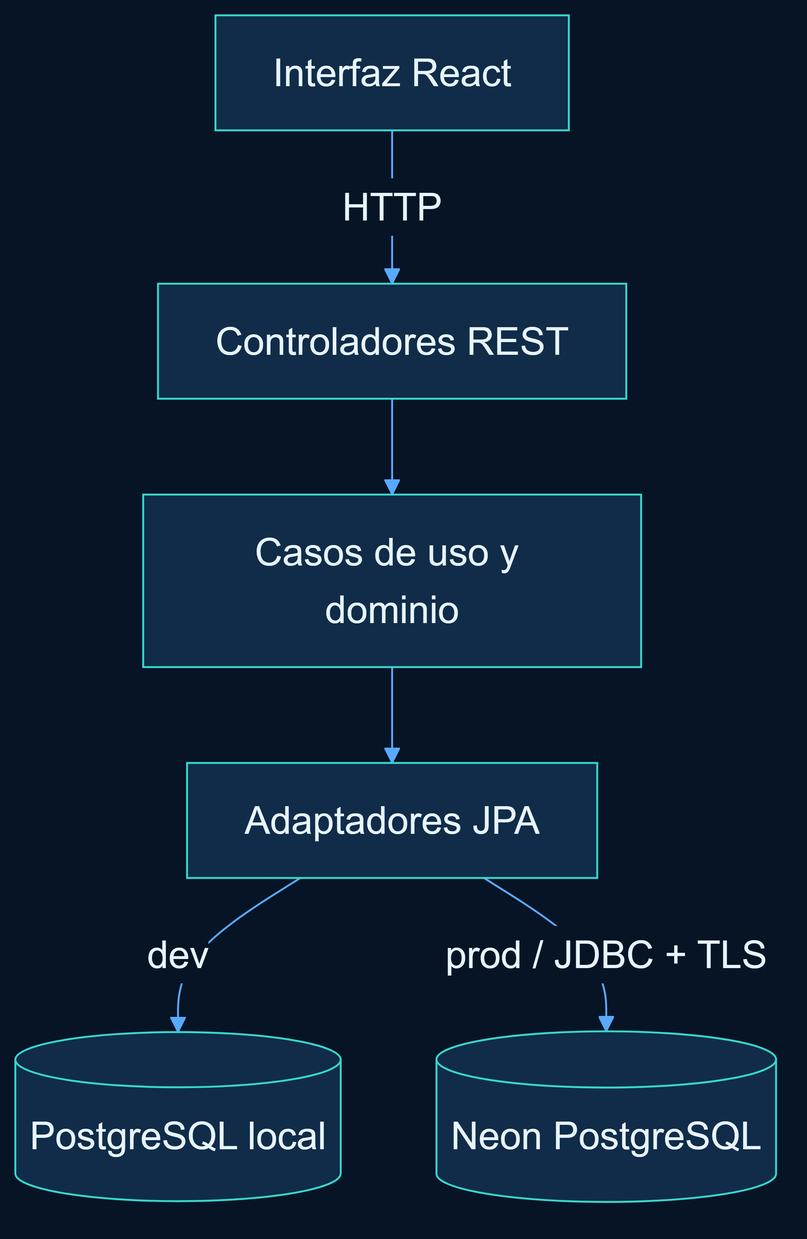
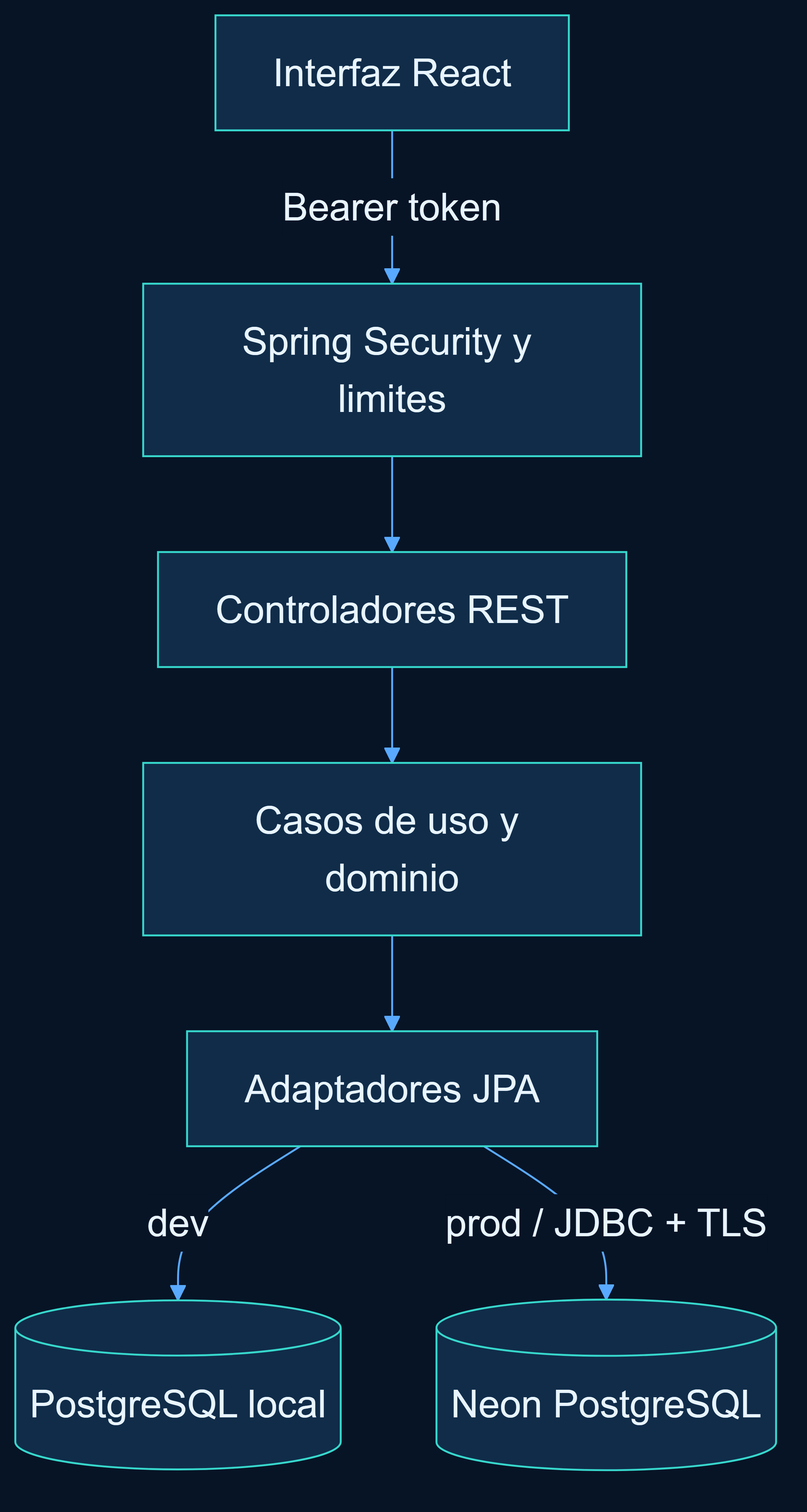
Update documentation

diff --git a/docs/deployment.md b/docs/deployment.md
@@ -1,0 +1,47 @@
+# Despliegue: Render, Vercel y Neon
+
+[Inicio](../README.md) · [Configuración local](getting-started.md)
+
+La aplicación se puede preparar con el backend en Render, el frontend en Vercel y PostgreSQL en Neon. Estos pasos no despliegan ni crean servicios por sí solos. La demo crea una sesión anónima temporal por pestaña. La API exige tokens Bearer y comprueba la propiedad de los recursos. No utiliza cuentas registradas.
+
+## Base de datos para la demo
+
+Se recomienda un proyecto Neon independiente con una base vacía y credenciales exclusivas para la demo. Así se separan los datos y los límites de uso del esquema existente. En la inspección de solo lectura del 18 de noviembre de 2026, la base Neon anterior contenía las tablas `usuarios`, `proyectos` y `tareas`, pero no `demo_sessions` ni `flyway_schema_history`. La migración `V1` crea las tablas originales y fallaría sobre ese esquema; no se debe resolver con baseline automático sin revisión.
+
+Una vez creada y comprobada la base demo vacía, ejecuta `V1` y `V2` con Flyway **solo tras autorizar esa acción**. Comprueba después el historial y vuelve a dejar `FLYWAY_ENABLED=false` en el servicio. No se han creado bases ni ejecutado migraciones en Neon durante la revisión.
+
+## Backend en Render
+
+Crea un **Web Service Docker** con el directorio raíz `backend`, el archivo `Dockerfile` de ese directorio y el plan Free. Configura el health check en `/health` y estas variables de entorno en Render:
+
+| Variable | Valor o función |
+|---|---|
+| `DATABASE_URL` | URI privada de Neon, incluida la contraseña. Configúrala como secreto en Render; no la incluyas en el repositorio ni en Vercel. |
+| `SPRING_PROFILES_ACTIVE` | `prod`. Es también el valor predeterminado de la imagen. |
+| `CORS_ALLOWED_ORIGINS` | Lista separada por comas de orígenes HTTPS exactos del frontend, por ejemplo `https://demo.example.com`; sin rutas ni barras finales. Si está vacía, `prod` no permite orígenes de navegador. |
+| `PORT` | Render proporciona el puerto; el backend lo escucha en todas las interfaces. Fuera de Render se usa `8080` por defecto. |
+| `JAVA_TOOL_OPTIONS` | Opcional: sustituye los parámetros de JVM de la imagen solo tras comprobar el consumo. |
+
+El perfil `prod` verifica TLS y el esquema existente en Neon (`ddl-auto=validate`); no crea ni modifica tablas. El archivo `.dockerignore` excluye variables de entorno, compilaciones y archivos locales del contexto de imagen. La imagen usa Java 21, un usuario sin privilegios y limita la memoria del heap al 50 % del límite disponible, además de limitar metaspace y caché de código. Estas opciones dejan espacio para memoria nativa, aunque el consumo real depende de la carga y debe vigilarse.
+
+`GET /health` devuelve `{"status":"UP"}` mientras la aplicación responde. No consulta la base de datos: una respuesta correcta no garantiza que Neon esté disponible.
+
+## Frontend en Vercel
+
+Importa el repositorio con `frontend` como directorio raíz y el preset Vite. El comando de compilación es `npm run build` y el directorio de salida es `dist`. Configura en Vercel la variable de compilación `VITE_API_URL` con el origen HTTPS público del backend de Render, sin `/api`, por ejemplo `https://backend.example.com`. Es pública en el código distribuido al navegador: nunca incluyas contraseñas ni otras credenciales. Tras cambiarla, vuelve a desplegar el frontend. En desarrollo, si no se define, se usa `http://localhost:8080`.
+
+Incluye el origen concreto de Vercel en `CORS_ALLOWED_ORIGINS`; si utilizas previsualizaciones con dominios distintos, autoriza explícitamente cada origen que deba funcionar. CORS restringe lecturas desde navegadores y no es un mecanismo de autenticación.
+
+## Protección de la demo
+
+El token aleatorio se almacena como hash en PostgreSQL y en `sessionStorage` del navegador; no es una cuenta de usuario. La sesión caduca tras 24 horas por defecto y solo permite acceder a sus proyectos y tareas. Las rutas de usuarios y OpenAPI están deshabilitadas. La limpieza borra lotes de sesiones caducadas mientras el backend está activo; Render puede detenerlo, por lo que el borrado físico no tiene una hora garantizada. La caducidad de acceso se comprueba en cada petición.
+
+El limitador en memoria restringe peticiones por dirección remota y sesión, y establece una cuota más estricta para crear sesiones; no es distribuido y se reinicia con la instancia. Detrás de proxies varios usuarios pueden compartir una dirección y sufrir limitaciones comunes. No confíes en cabeceras de IP del cliente sin configurar proxies de confianza. Los límites reducen el abuso, pero no evitan ataques distribuidos ni agotan el riesgo de costes o indisponibilidad. Usa datos ficticios, una base Neon aislada y monitoriza el uso.
+
+La CSP del frontend está en `frontend/vercel.json`; su `connect-src https://*.onrender.com` permite subdominios de Render para facilitar la configuración, de modo que conviene sustituirlo por el origen exacto de la API antes de publicar. El token en `sessionStorage` puede ser robado si se ejecuta JavaScript malicioso en la página. CORS no protege contra llamadas directas.
+
+Las migraciones Flyway están deshabilitadas por defecto (`FLYWAY_ENABLED=false`). En una base de datos nueva y aislada se puede habilitar `FLYWAY_ENABLED=true`; para una base existente sin historial de Flyway hay que revisar el esquema y preparar el baseline manualmente antes de habilitarlas. No ejecutar migraciones en producción sin autorización. La base aislada debe estar preparada antes de arrancar el perfil `prod`.
+
+Variables opcionales del backend: `DEMO_SESSION_HOURS` (24), `DEMO_MAX_SESSIONS` (1000), `DEMO_MAX_PROJECTS` (5), `DEMO_MAX_TASKS` (25), `DEMO_RATE_PER_MINUTE` (120) y `DEMO_SESSION_RATE_PER_MINUTE` (5). La limpieza se configura con las propiedades `demo.cleanup-interval-ms` y `demo.cleanup-initial-delay-ms`.
+
+Render Free puede suspender servicios inactivos y tardar en reanudarlos; consulta sus límites vigentes antes de publicar. No se requiere ni se configura ningún plan de pago en estos pasos.

diff --git a/docs/rest-api.md b/docs/rest-api.md
@@ -1,43 +1,22 @@
 # API REST
 
-[Inicio](../README.md) · [Casos de uso](use-cases.md)
+[Inicio](../README.md) · [Modelo de datos](data-model.md)
 
-Base local habitual: `http://localhost:8080`. Los identificadores en rutas y cuerpos son UUID. La interfaz OpenAPI está configurada en `/swagger-ui/index.html`; su disponibilidad depende del arranque correcto.
+`POST /api/demo/session` crea una sesión anónima y devuelve `token` y `expiresAt`. El token se entrega una sola vez y debe enviarse en `Authorization: Bearer <token>` para las rutas de proyectos y tareas. No se aceptan cookies como credenciales. `GET /health` es público. Las rutas de usuarios y la interfaz OpenAPI no están disponibles en el modo demo.
 
-## Operaciones
-
-| Método y ruta | Cuerpo | Éxito |
+| Método y ruta | Cuerpo | Resultado |
 |---|---|---|
-| `POST /api/usuarios` | `name`, `email` | 201, usuario |
-| `GET /api/usuarios/{id}` | — | 200, usuario |
-| `POST /api/proyectos` | `name`, `description`, `ownerId` | 201, proyecto |
-| `GET /api/proyectos/usuario/{ownerId}` | — | 200, lista de proyectos |
-| `DELETE /api/proyectos/{id}` | — | 204, sin cuerpo |
-| `POST /api/tareas` | `titulo`, `descripcion`, `projectId` | 201, tarea |
-| `GET /api/tareas/{id}` | — | 200, tarea |
-| `GET /api/tareas/proyecto/{projectId}` | — | 200, lista de tareas |
-| `PUT /api/tareas/{id}` | `titulo`, `descripcion` | 200, tarea |
-| `PATCH /api/tareas/{id}/estado` | `estado` | 200, tarea |
-| `DELETE /api/tareas/{id}` | — | 204, sin cuerpo |
+| `POST /api/demo/session` | — | 200, sesión y datos ficticios iniciales |
+| `GET /api/proyectos` | — | Lista de proyectos de la sesión |
+| `POST /api/proyectos` | `name`, `description` | 201, proyecto propio |
+| `DELETE /api/proyectos/{id}` | — | 204, elimina el proyecto propio y sus tareas |
+| `POST /api/tareas` | `titulo`, `descripcion`, `projectId` | 201, tarea en un proyecto propio |
+| `GET /api/tareas/{id}` | — | Tarea propia |
+| `GET /api/tareas/proyecto/{id}` | — | Tareas de un proyecto propio |
+| `PUT /api/tareas/{id}` | `titulo`, `descripcion` | Tarea propia editada |
+| `PATCH /api/tareas/{id}/estado` | `estado` | Tarea propia actualizada |
+| `DELETE /api/tareas/{id}` | — | 204, tarea propia eliminada |
 
-Los nombres y email de usuario, el nombre de proyecto y el título de tarea deben ser no vacíos; `ownerId` y `projectId` son obligatorios en sus creaciones. La descripción es opcional. `Email` comprueba que exista `@`, además de no estar vacío; no realiza una validación completa del formato. El PATCH convierte el texto con `TaskStatus.valueOf`: admite `PENDIENTE`, `EN_PROGRESO`, `HECHO` y `CANCELADO`, respetando mayúsculas.
+Los estados son `PENDIENTE`, `EN_PROGRESO`, `HECHO` y `CANCELADO`. Los títulos y nombres son obligatorios y se limitan a 255 caracteres; las descripciones son opcionales y tienen el mismo límite. El servidor determina el propietario: no debe enviarse `ownerId`.
 
-Ejemplo de cuerpo de creación de tarea:
-
-```json
-{
-  "titulo": "Preparar documentación",
-  "descripcion": "Revisar los casos de uso",
-  "projectId": "11111111-1111-4111-8111-111111111111"
-}
-```
-
-Ejemplo de cambio de estado: `{"estado":"EN_PROGRESO"}`. Los UUID de ejemplo no garantizan que exista el recurso relacionado.
-
-## Respuestas y errores
-
-Un usuario contiene `id`, `name`, `email`; un proyecto, `id`, `name`, `description`, `ownerId`; y una tarea, `id`, `titulo`, `descripcion`, `status`, `projectId`, `assignedTo`.
-
-`GlobalExceptionHandler` convierte `RecursoNoEncontradoException` en 404 y `IllegalArgumentException` en 400 con `timestamp`, `status`, `error` y `mensaje`. Los fallos de validación `@Valid` devuelven 400 con un mapa `errores` por campo. El servicio de cambio de estado usa una `RuntimeException` genérica para una tarea inexistente, por lo que no entra en el manejador específico de 404. El DTO de PATCH no lleva `@Valid` ni restricciones; no se debe asumir una respuesta uniforme para valores ausentes o nulos.
-
-La creación de proyecto y tarea no comprueba la existencia del UUID relacionado. No se implementa autenticación ni autorización en los controladores y configuración revisados.
+Un token ausente, inválido o caducado recibe 401. Los recursos ajenos o inexistentes reciben 404. Las rutas de usuarios están denegadas. Los límites de peticiones y cuotas responden 429. CORS no sustituye la autenticación. No incluyas tokens en URL ni registros.

diff --git a/README.md b/README.md
@@ -2,19 +2,19 @@
 
 Aplicación de gestión de proyectos y tareas con una interfaz React y una API REST en Java. El backend organiza el modelo, los casos de uso y los adaptadores siguiendo una arquitectura de puertos y adaptadores con elementos de DDD.
 
-**Java 21 · Spring Boot 4.0.6 · PostgreSQL / Neon · React 19 · Vite 8**
+**Java 21 · Spring Boot 4.0.9 · PostgreSQL / Neon · React 19 · Vite 8**
 
 ![Arquitectura general](docs/diagrams/svg/full-stack.svg)
 
 ## Qué permite hacer
 
-- Crear y consultar usuarios mediante la API.
+- Iniciar una sesión demo anónima con datos ficticios.
 - Crear, listar y eliminar proyectos; gestionar las tareas de cada proyecto.
 - Crear, consultar, editar, eliminar y cambiar el estado de tareas.
 - Buscar tareas por título y consultar contadores del proyecto seleccionado en la interfaz.
 - Consultar la documentación OpenAPI configurada en el backend.
 
-La interfaz utiliza un identificador de usuario fijo y una URL de API local. La asignación de tareas aparece en el modelo, pero no existe un caso de uso ni endpoint de asignación en el código actual. No hay autenticación ni autorización implementadas.
+La demo crea una sesión anónima temporal con datos ficticios por visitante; cada sesión solo puede acceder a sus proyectos y tareas. La asignación de tareas aparece en el modelo, pero no existe un caso de uso ni endpoint de asignación en el código actual. La API protege las operaciones de la demo mediante tokens y comprobaciones de propiedad.
 
 ## Capturas
 
@@ -41,16 +41,16 @@ Se necesitan Java 21, PostgreSQL local o una base Neon preparada, Node.js y npm.
 
 Para ejecutar con PostgreSQL local:
 
-1. Crear la base de datos `gestiontareas` y establecer `DB_PASSWORD` con la contraseña del usuario PostgreSQL `postgres`.
+1. Crear una base local nueva `gestiontareas`, establecer `DB_PASSWORD` y habilitar `FLYWAY_ENABLED=true` para aplicar las migraciones en esa base aislada.
 2. Desde `backend/`, ejecutar `./mvnw spring-boot:run` o, en Windows, `.\mvnw.cmd spring-boot:run`.
 3. Desde `frontend/`, ejecutar `npm install` y después `npm run dev`.
 4. Abrir `http://localhost:5173`. La API se configura en `http://localhost:8080`.
 
-El perfil `dev` usa PostgreSQL local; el perfil `prod` utiliza `DATABASE_URL` de Neon con TLS y valida el esquema existente sin modificarlo. La configuración de Neon y los pasos de arranque están en [Puesta en marcha](docs/getting-started.md).
+Flyway está desactivado por defecto y no debe habilitarse en una base existente sin revisar su esquema y su baseline. El perfil `dev` usa PostgreSQL local; el perfil `prod` utiliza `DATABASE_URL` de Neon con TLS y valida el esquema existente sin modificarlo. La configuración de Neon y los pasos de arranque están en [Puesta en marcha](docs/getting-started.md).
 
-La validación del backend cubre 28 pruebas; consulta [Pruebas](docs/testing.md) para conocer el resultado y sus condiciones.
+La validación del backend incluye pruebas de seguridad y de integración; consulta [Pruebas](docs/testing.md) para conocer el resultado y sus condiciones.
 
-Consulta [Puesta en marcha](docs/getting-started.md) antes de utilizar el frontend: contiene información necesaria sobre el identificador de usuario fijo, configuración y pruebas.
+Consulta [Puesta en marcha](docs/getting-started.md) antes de utilizar el frontend: contiene información sobre sesiones, configuración y pruebas.
 
 ## Documentación técnica
 
@@ -62,11 +62,12 @@ Consulta [Puesta en marcha](docs/getting-started.md) antes de utilizar el fronte
 - [Pruebas](docs/testing.md)
 - [Frontend](docs/frontend.md)
 - [Puesta en marcha](docs/getting-started.md)
+- [Despliegue en Render y Vercel](docs/deployment.md)
 - [Catálogo de diagramas](docs/diagrams/README.md)
 
 ## Evolución posible
 
-Entre las mejoras pendientes están la autenticación y autorización, la configuración externa del usuario y de la URL de API, el tratamiento consistente de errores, la integridad referencial y la ampliación de pruebas. Son propuestas, no funcionalidades existentes.
+Entre las mejoras pendientes están la autenticación de usuarios registrados, la configuración externa del usuario y de la URL de API, el tratamiento consistente de errores, la integridad referencial y la ampliación de pruebas. Son propuestas, no funcionalidades existentes.
 
 ## Autor
 

diff --git a/docs/testing.md b/docs/testing.md
@@ -8,12 +8,14 @@
 
 - **Dominio:** `EmailTest` comprueba la creación y varios valores inválidos; `TaskTest` cubre estado inicial, cambio de estado y asignación.
 - **Servicios:** JUnit y Mockito comprueban creación de usuario, proyecto y tarea; consulta y cambio de estado de tarea; y eliminación de proyecto, incluido el orden de eliminación.
+- **Seguridad demo:** pruebas HTTP con PostgreSQL aislado verifican sesión, hash del token, aislamiento de recursos, caducidad, limpieza y cuotas; el limitador se comprueba por separado.
+- **Despliegue:** `DeploymentWebConfigTest` comprueba el health check y las restricciones CORS.
 - **Configuración de Neon:** `NeonDataSourceConfigTest` comprueba la conversión de la URI, TLS verificado y el tratamiento de entradas inválidas.
 - **Integración:** Spring Boot Test y Testcontainers usan PostgreSQL `16-alpine` para comprobar carga del contexto, conexión, proxy transaccional y rollback al fallar la eliminación.
 
 La prueba de rollback usa una base de datos real en contenedor y un espía que introduce el fallo. No se ha encontrado una suite de controladores HTTP ni una suite de frontend en el árbol de pruebas. No se dispone aquí de una medición de cobertura.
 
-El perfil `test` configura `ddl-auto=create-drop`, desactiva Open Session in View y el reinicio de DevTools. Las clases con Testcontainers requieren Docker operativo.
+El perfil `test` ejecuta Flyway en PostgreSQL aislado y configura `ddl-auto=validate`, desactiva Open Session in View y el reinicio de DevTools. Las clases con Testcontainers requieren Docker operativo.
 
 ## Ejecución
 
@@ -29,8 +31,12 @@ En Linux o macOS:
 ./mvnw clean test
 ```
 
-En la validación del 18 de noviembre de 2026 se ejecutaron las **25 pruebas existentes** y las **3 pruebas nuevas** de configuración de Neon con Java 21 y Docker: **28 pruebas superadas, 0 fallos, 0 errores y 0 omitidas**. Las pruebas de integración usaron PostgreSQL `16-alpine` mediante Testcontainers. Maven finalizó con `BUILD SUCCESS`. Mockito mostró un aviso sobre la carga dinámica de su agente en futuras versiones del JDK.
+En la validación del 18 de noviembre de 2026 se ejecutaron las pruebas con Java 21 y Docker: **38 pruebas superadas, 0 fallos, 0 errores y 0 omitidas**, incluidas las pruebas de seguridad de la demo y la comprobación de Flyway sobre un esquema existente sin historial. Las pruebas de integración usaron PostgreSQL `16-alpine` mediante Testcontainers. Maven finalizó con `BUILD SUCCESS`. Mockito mostró un aviso sobre la carga dinámica de su agente en futuras versiones del JDK.
 
 También se verificaron con datos temporales el CRUD, la eliminación en cascada y la persistencia directa en Neon; se eliminaron los datos de prueba. En la misma validación, `npm run build` en `frontend/` terminó correctamente con Vite. Estos comandos generan archivos locales de compilación; un resultado anterior no garantiza el de ejecuciones futuras.
 
 Las fuentes editables y exportaciones están disponibles en el [catálogo de diagramas](diagrams/README.md).
+
+## Auditoría de dependencias
+
+La revisión del 18 de noviembre de 2026 no detectó avisos OSV en el árbol Maven actualizado ni vulnerabilidades npm en dependencias de producción del frontend. La auditoría completa de desarrollo mantiene un aviso alto en `picomatch` y dependencias que lo utilizan; no hay versión corregida publicada en esa fecha. No se debe ejecutar Vite como servidor de producción ni procesar patrones glob no confiables; revisar la auditoría y actualizar cuando exista corrección.

diff --git a/docs/getting-started.md b/docs/getting-started.md
@@ -19,9 +19,11 @@ El perfil predeterminado es `dev`. La configuración apunta a `jdbc:postgresql:/
 
 ```powershell
 $env:DB_PASSWORD = "tu_contraseña"
+# Solo para una base nueva y aislada:
+$env:FLYWAY_ENABLED = "true"
 ```
 
-Adapta el entorno local a estos valores. No incluyas contraseñas en el repositorio. El perfil de desarrollo usa `spring.jpa.hibernate.ddl-auto=update`.
+Para ejecutar la demo, usa una base local nueva y aislada y habilita Flyway como se muestra. El esquema existente sin historial Flyway necesita una revisión y un baseline explícito; no habilites automáticamente las migraciones sobre una base con datos. Adapta el entorno local a estos valores. No incluyas contraseñas en el repositorio. El perfil de desarrollo usa `spring.jpa.hibernate.ddl-auto=update`.
 
 ## Backend
 
@@ -37,7 +39,7 @@ En Linux o macOS:
 ./mvnw spring-boot:run
 ```
 
-La configuración habitual expone la API en `http://localhost:8080` y Swagger UI en `http://localhost:8080/swagger-ui/index.html`. Su disponibilidad debe comprobarse al arrancar la aplicación.
+La configuración habitual expone la API en `http://localhost:8080`. La documentación OpenAPI está deshabilitada por la política de seguridad de la demo.
 
 ## Frontend
 
@@ -48,9 +50,9 @@ npm install
 npm run dev
 ```
 
-Abre `http://localhost:5173`. CORS solo permite ese origen para `/api/**`. Si Vite escoge otro puerto, ese origen no coincide con la configuración.
+Abre `http://localhost:5173`. Por defecto, CORS permite ese origen para `/api/**`. Si Vite usa otro puerto, configura `CORS_ALLOWED_ORIGINS` en el backend. El frontend usa `VITE_API_URL` si está definida o `http://localhost:8080` en caso contrario.
 
-`App.jsx` usa el UUID fijo `5c3a541c-5a22-45e8-92d7-600f3adfcbfb` como propietario y consulta sus proyectos. La API de creación de usuarios genera UUID y la interfaz no permite elegirlo. Las entidades JPA actuales no declaran una clave foránea para `owner_id`; por ello no se debe asumir que la creación de proyectos valide la existencia del usuario. Para un entorno coherente con usuarios reales será necesario adaptar esa configuración o preparar datos apropiados; esto no se realiza automáticamente.
+La interfaz solicita una sesión demo y conserva su token en `sessionStorage`. Flyway está desactivado por defecto: para una base nueva y aislada, establece `FLYWAY_ENABLED=true` y usa `ddl-auto=validate`. No actives migraciones en una base existente sin revisar previamente el esquema y preparar un baseline explícito.
 
 ## Pruebas
 
@@ -74,3 +76,5 @@ Set-Location backend
 ```
 
 En otros entornos, proporciona `DATABASE_URL` directamente mediante el gestor de secretos del despliegue y activa `SPRING_PROFILES_ACTIVE=prod`. Evita mostrar, compartir o guardar la URI en archivos versionados. El archivo `.neon` también permanece local y está ignorado por Git.
+
+Para preparar Render y Vercel, consulta [Despliegue](deployment.md).

diff --git a/docs/data-model.md b/docs/data-model.md
@@ -4,20 +4,13 @@
 
 ![Modelo de datos](diagrams/svg/data-model.svg)
 
-Las clases `UserEntity`, `ProjectEntity` y `TaskEntity` definen las tablas siguientes. Los identificadores son UUID proporcionados por el dominio.
+| Tabla | Contenido |
+|---|---|
+| `demo_sessions` | UUID, hash SHA-256 único del token y fecha de caducidad. |
+| `proyectos` | UUID, nombre, descripción y `owner_id` con el UUID de la sesión demo. |
+| `tareas` | UUID, título, descripción, estado, `project_id` y asignación opcional. |
+| `usuarios` | Tabla anterior conservada; su API está deshabilitada para la demo. |
 
-| Tabla | Columnas | Restricciones declaradas en JPA |
-|---|---|---|
-| `usuarios` | `id`, `name`, `email` | ID; nombre y email no nulos; email único. |
-| `proyectos` | `id`, `name`, `description`, `owner_id` | ID; nombre y propietario no nulos. |
-| `tareas` | `id`, `titulo`, `descripcion`, `status`, `project_id`, `assigned_to` | ID; título, estado y proyecto no nulos. |
+Las referencias entre sesiones, proyectos y tareas son lógicas; las migraciones no añaden claves foráneas a las tablas existentes. El servicio comprueba propiedad antes de leer o modificar y elimina las tareas antes del proyecto. La limpieza borra únicamente los datos vinculados a sesiones demo caducadas.
 
-`owner_id`, `project_id` y `assigned_to` representan referencias lógicas por UUID. Las entidades no declaran asociaciones JPA ni claves foráneas mediante anotaciones; tampoco hay cascada JPA declarada. El esquema de una base de datos concreta podría contener restricciones adicionales ajenas a estas clases. La eliminación de tareas de un proyecto se ejecuta explícitamente desde el servicio.
-
-La creación de proyecto no consulta si existe el propietario y la creación de tarea no consulta si existe el proyecto. El campo `assigned_to` es opcional; aunque el modelo permite asignar una tarea, la API no expone esa operación.
-
-Los estados de tarea son `PENDIENTE`, `EN_PROGRESO`, `HECHO` y `CANCELADO`. Se almacenan como texto. El constructor establece `PENDIENTE` y `cambiarEstado` asigna el valor recibido sin definir transiciones permitidas.
-
-En desarrollo Hibernate usa `ddl-auto=update`; en el perfil de pruebas se usa `create-drop`. No se ha inspeccionado una base de datos desplegada.
-
-Las fuentes editables y exportaciones están disponibles en el [catálogo de diagramas](diagrams/README.md).
+Flyway contiene una migración inicial y otra para sesiones. Su ejecución automática está desactivada salvo `FLYWAY_ENABLED=true`. Para una base existente sin historial de Flyway no se debe activar `baseline-on-migrate`: requiere una revisión y una estrategia de baseline explícita antes de aplicar cambios. Nunca se han ejecutado estas migraciones en producción como parte de esta implementación.

diff --git a/docs/frontend.md b/docs/frontend.md
@@ -18,8 +18,6 @@ El frontend usa React 19, Vite 8, Bootstrap 5 y CSS. `main.jsx` monta `App` bajo
 
 La interfaz utiliza una paleta definida mediante variables CSS y adapta la navegación y las tarjetas a pantallas pequeñas. El botón de la cabecera permite eliminar el proyecto activo. El [README](../README.md#capturas) muestra el panel y los flujos de creación y eliminación de proyectos.
 
-Al cargar, se consultan los proyectos de un UUID fijo y se selecciona el primero si existe. Las tareas se consultan al cambiar de proyecto. La búsqueda filtra por título sin distinguir mayúsculas y ordena por título; los contadores se calculan sobre las tareas cargadas del proyecto. Se muestran total, pendientes, en progreso y hechas; el estado cancelado está disponible en el selector.
+Al cargar, la interfaz crea o recupera una sesión anónima por pestaña y envía su token Bearer a la API. El token se guarda en `sessionStorage`; cuando caduca, la interfaz permite iniciar una demo nueva. Cada sesión recibe datos ficticios independientes. La URL base se configura con `VITE_API_URL` y usa `http://localhost:8080` por defecto.
 
-La API está fijada a `http://localhost:8080` y el usuario a un UUID en `App.jsx`. No existe pantalla de autenticación ni de creación de usuarios. La eliminación de proyectos requiere confirmación, advierte de que se eliminarán las tareas asociadas y comprueba `response.ok`. Durante la petición se deshabilitan las acciones; si falla, se muestra un mensaje y se puede reintentar. En otras operaciones las respuestas HTTP no se comprueban sistemáticamente y algunos errores se registran en consola. Estas son limitaciones actuales, no garantías de funcionamiento.
-
-El repositorio no declara un script de pruebas de frontend. [Puesta en marcha](getting-started.md) describe la configuración local.
+La búsqueda filtra las tareas por título. La eliminación de proyectos solicita confirmación y comprueba la respuesta. La política CSP para Vercel está en `frontend/vercel.json`; `connect-src` solo permite el mismo origen por defecto y debe ampliarse al origen exacto de la API antes de publicar.

diff --git a/docs/architecture.md b/docs/architecture.md
@@ -2,7 +2,7 @@
 
 [Inicio](../README.md) · [Datos](data-model.md) · [Casos de uso](use-cases.md)
 
-La aplicación consta de una SPA React que llama por HTTP a una API Spring Boot. La API utiliza JPA y Spring Data para persistir en PostgreSQL: el perfil `dev` usa una instancia local y `prod` conecta con Neon mediante JDBC y TLS con verificación del certificado y del nombre del servidor.
+La aplicación consta de una SPA React que llama por HTTP a una API Spring Boot protegida por Spring Security y tokens Bearer de sesiones anónimas. La API utiliza JPA y Spring Data para persistir en PostgreSQL: el perfil `dev` usa una instancia local y `prod` conecta con Neon mediante JDBC y TLS con verificación del certificado y del nombre del servidor.
 
 ![Arquitectura general](diagrams/svg/full-stack.svg)
 
@@ -18,7 +18,7 @@ La aplicación consta de una SPA React que llama por HTTP a una API Spring Boot.
 
 ![Puertos y adaptadores](diagrams/svg/hexagonal.svg)
 
-Los controladores consumen interfaces de casos de uso. Los servicios usan interfaces de repositorio; los adaptadores JPA las implementan y delegan en Spring Data. `BeanConfiguration` conecta las implementaciones. Los mapeadores convierten objetos de dominio y entidades JPA.
+El filtro de seguridad valida el hash del token y aplica límites en memoria. El servicio demo utiliza un puerto de persistencia para comprobar la sesión, las cuotas y la propiedad bajo transacción antes de invocar los casos de uso. Los controladores consumen los casos de uso. Los servicios usan interfaces de repositorio; los adaptadores JPA las implementan y delegan en Spring Data. `BeanConfiguration` conecta las implementaciones. Los mapeadores convierten objetos de dominio y entidades JPA.
 
 ![Dirección de dependencias](diagrams/svg/dependencies.svg)
 

diff --git a/docs/use-cases.md b/docs/use-cases.md
@@ -20,13 +20,13 @@ Los puertos de entrada de `domain/port/in` son implementados por servicios de ap
 | Tareas | Eliminar | Comprueba existencia y elimina por ID. |
 | Tareas | Actualizar estado | Busca, cambia estado y guarda; si falta, lanza `RuntimeException` genérica. |
 
-Las listas consultan por identificador sin comprobar previamente la existencia del propietario o proyecto. El modelo también tiene métodos de asignación y renombrado, pero no hay que confundirlos con operaciones expuestas por la API.
+En la API demo, el servicio de sesión comprueba previamente la propiedad de los proyectos y tareas. Los casos de uso de usuarios permanecen en el dominio, pero sus rutas HTTP están deshabilitadas. El modelo también tiene métodos de asignación y renombrado, pero no hay que confundirlos con operaciones expuestas por la API.
 
 ## Creación de una tarea
 
 ![Secuencia de creación](diagrams/svg/create-task.svg)
 
-El controlador valida el DTO y convierte el UUID al identificador de dominio. El servicio crea `Task` y llama al puerto de salida; el adaptador convierte a entidad JPA, guarda y reconstruye el modelo. El controlador devuelve el DTO con código 201.
+El controlador valida el DTO y el servicio demo comprueba que el proyecto pertenece a la sesión antes de convertir el UUID al identificador de dominio. El servicio crea `Task` y llama al puerto de salida; el adaptador convierte a entidad JPA, guarda y reconstruye el modelo. El controlador devuelve el DTO con código 201.
 
 ## Eliminación de un proyecto
 

diff --git a/frontend/README.md b/frontend/README.md
@@ -9,7 +9,7 @@ npm install
 npm run dev
 ```
 
-La dirección habitual es `http://localhost:5173`; el código utiliza la API en `http://localhost:8080` y un UUID de usuario fijo. Lee [Puesta en marcha](../docs/getting-started.md) para conocer esta limitación y [Frontend](../docs/frontend.md) para la descripción de componentes y comportamiento.
+La dirección habitual es `http://localhost:5173`; la API usa `VITE_API_URL` o `http://localhost:8080` por defecto y cada pestaña usa una sesión demo temporal sin registro. Lee [Puesta en marcha](../docs/getting-started.md) para conocer esta limitación y [Frontend](../docs/frontend.md) para la descripción de componentes y comportamiento.
 
 El backend puede usar PostgreSQL local (`dev`) o Neon (`prod`); la conexión y sus credenciales permanecen en el backend.
 
